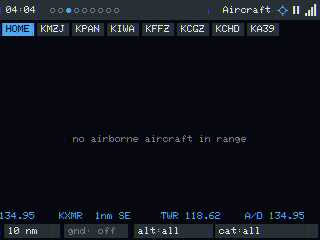
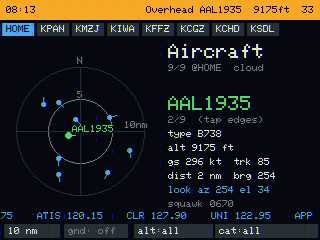
docs: populated Aircraft radar shot + frequency-marquee write-up
- Replace the old "feed unavailable" Aircraft screenshot with a live, populated radar
  (the cloud feed now runs over plain HTTP so it fills even under the heap floor),
  captured at a busy metro with the home location redacted.
- README: expand the Aircraft section — the radar + a dedicated paragraph on the
  frequency marquee (nearest field's ATIS/CTAF/ground/tower/approach freqs from the
  bundled 3,877-field US airport DB), and note the overhead alert.

diff --git a/README.md b/README.md
@@ -87,7 +87,8 @@ the page it's about**); long-press to **pin**.
 | |
 |---|
 | ![Aircraft radar](docs/img/page2-aircraft.jpg) |
-| A north-up **ADS-B radar** with range rings (your range + 5/10 nm reference), per-blip **heading chevrons**, and **dead-reckoned** motion between updates. Tap a blip → callsign, type, altitude, ground speed + track, distance/bearing, and the **look az/el** (where to point binoculars). An **emergency squawk** (7700/7600/7500) rings the contact and raises a banner, and a plane passing **nearly overhead** (within 5 nm and >20° up) fires a cross-tab "Overhead" alert + tab badge; HOME + airport chips recenter the radar; chips filter range / on-ground / altitude / category; a marquee scrolls the **nearest airport + its frequencies**. *(Shown at a quiet field — and note a real limit: on a no-PSRAM board the live ADS-B fetch competes with the screenshot buffer for heap, so a busy radar is hard to **screenshot** even when it's lively on the glass — see Limitations.)* |
+| A north-up **ADS-B radar** with range rings (your range + 5/10 nm reference), per-blip **heading chevrons**, and **dead-reckoned** motion between updates. Tap a blip → callsign, type, altitude, ground speed + track, distance/bearing, and the **look az/el** (where to point binoculars). An **emergency squawk** (7700/7600/7500) rings the contact and raises a banner, and a plane passing **nearly overhead** (within 5 nm and >20° up) fires a cross-tab "Overhead" alert + tab badge. HOME + airport chips recenter the radar; chips filter range / on-ground / altitude / category. |
+| **The frequency marquee** along the bottom is a sleeper feature: it scrolls the **nearest airport's identifier, name, distance/bearing, and its actual radio frequencies** — ATIS/AWOS, CTAF/UNICOM, clearance, ground, tower, and approach/departure — pulled from a **bundled 3,877-field US airport database** baked into the LittleFS image (so it works without a network). Glance at it to know exactly what to dial up on a scanner to hear the traffic you can see on the radar. *(The cloud ADS-B feed runs over plain HTTP so it populates even under the no-PSRAM heap floor; the radar above is live traffic at a busy metro, with the home location redacted.)* |
 
 ### 3 · Aviation weather — *the sky's flight briefing*
 